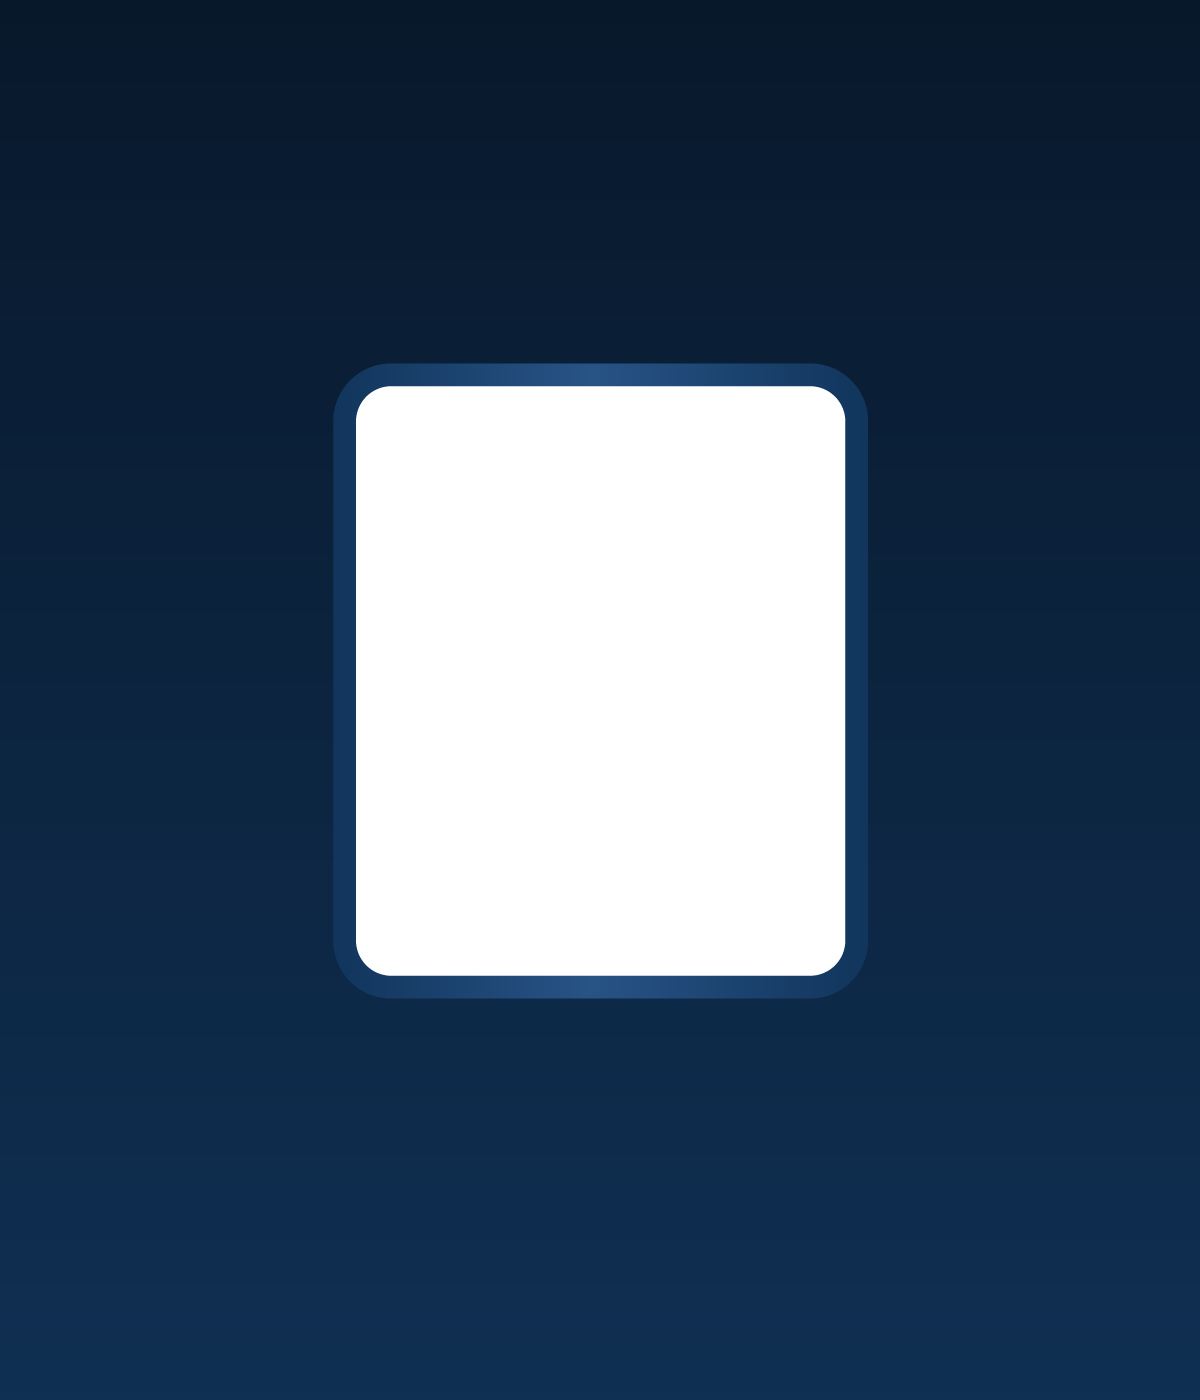
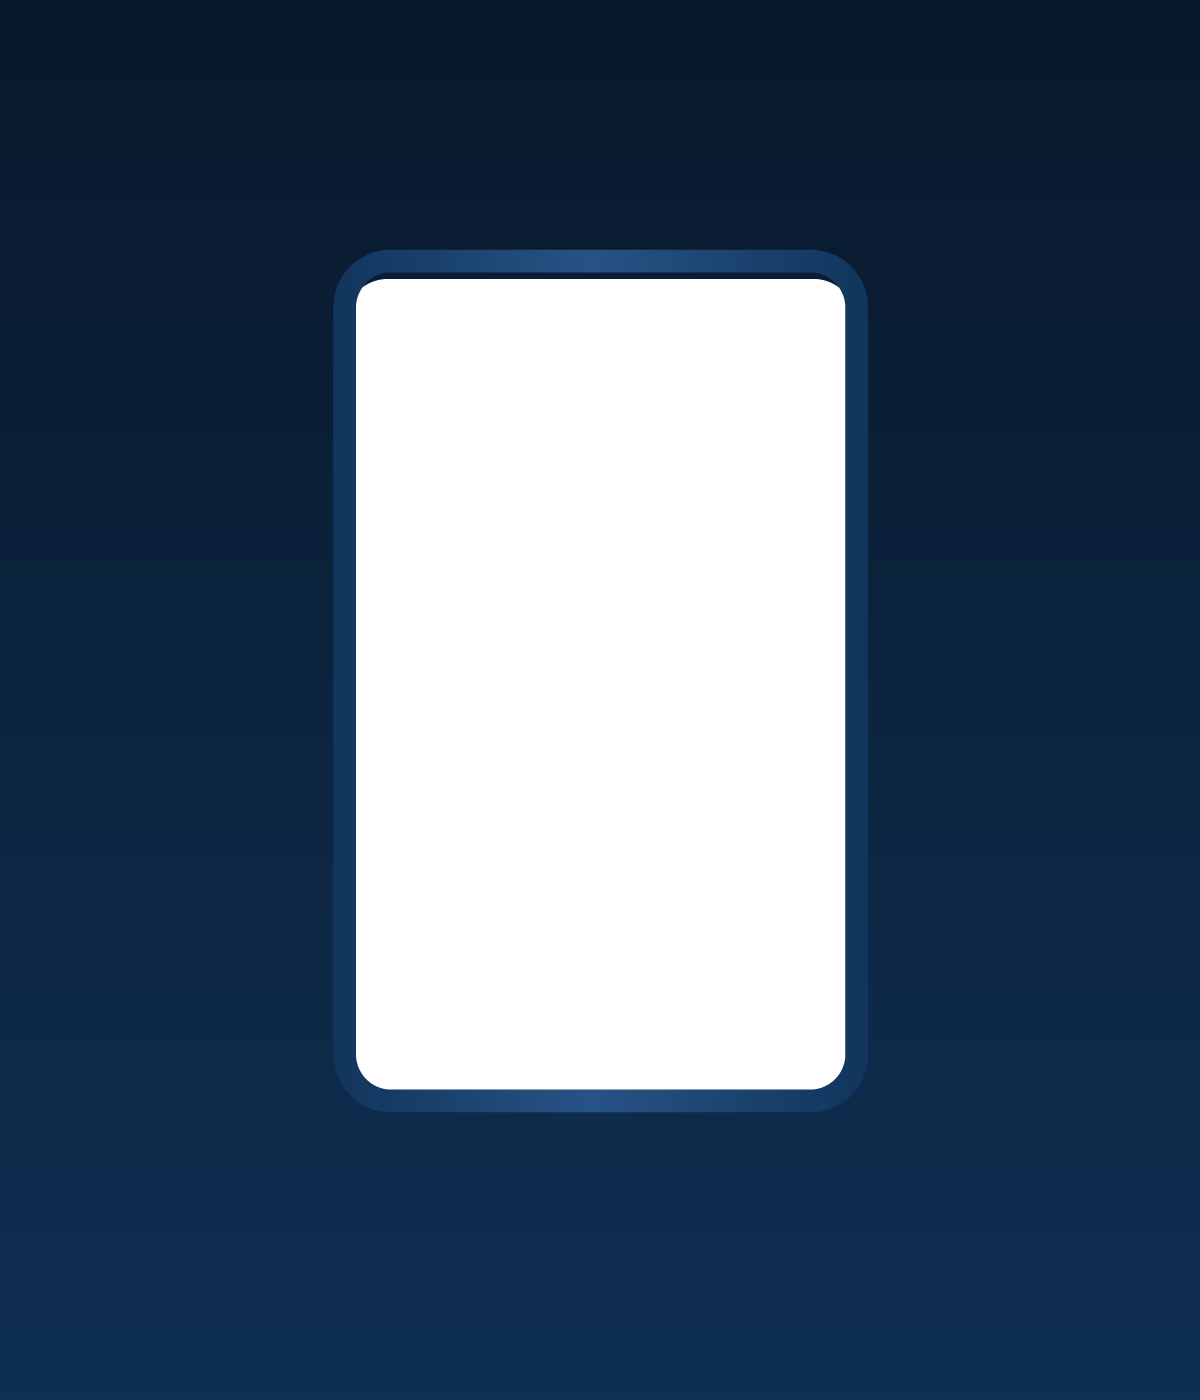
up

Changed region(s): [[0.2775, 0.1536, 0.74, 0.3071], [0.2775, 0.6757, 0.7092, 0.7986]]

diff --git a/dolphin2.html b/dolphin2.html
@@ -141,6 +141,8 @@ to{left: 55%;top: 30%;opacity: 1;}
 from{left: 50%;bottom:20%;opacity: 0;}
 to{left: 50%;bottom: 30%;opacity: 1;}
 }
+#img3_5{z-index: 4;width: 75%;top: 50%;left: 52%;transform: translate(-50%, -50%);}
+#img3_6{z-index: 6;width: 20%;top: 82%;left: 85%;transform: translate(-50%, -50%);}
 
 #s3_2 #img3_1{left: 50%;bottom: 25%;z-index: 3;width: 100%;transform: translate(-50%,0%);}
 #s3_2 #img3_2{left: 50%;bottom: 30%;z-index: 2;width: 80%;transform: translate(-50%,0%);}
